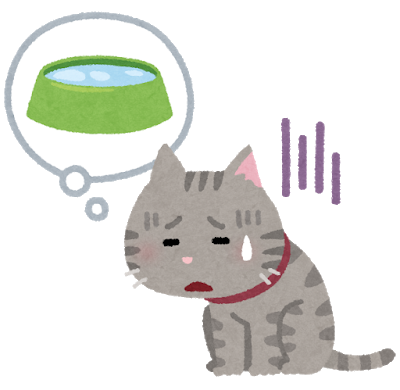
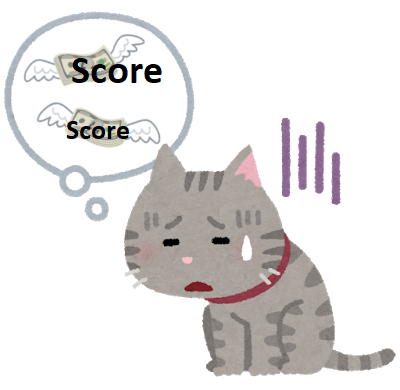
implemented the function to start a new trial

Changed region(s): [[0.06, 0.0615, 0.45, 0.4]]

diff --git a/js/view.js b/js/view.js
@@ -86,7 +86,7 @@ const restartBtn = () => {
     const btn = $('<button/>')
     .attr({
         class : 'btn btn-danger buttons',
-        id : 'restBtn',
+        id : 'restartBtn',
         'data-toggle': 'modal',
         'data-target': '#restart_modal' /*Trigger restart confirmation modal window*/
     }).text(RESTART_BTN);
@@ -294,6 +294,7 @@ const restart = () => {
 
     const  yesBtn = $('<button/>').attr({
         type: 'button',
+        id: 'yes',
         class: 'btn btn-primary modalBtns'
     })
     .text('YES');
@@ -329,30 +330,48 @@ const gameover = () => {
     
     const  restartBtn = $('<button/>').attr({
         type: 'button',
+        id: 'gameoverRestartBtn',
         class: 'btn btn-primary modalBtns'
     })
     .text(RESTART_BTN);
 
-    const  closeBtn = $('<button/>').attr({
-        type: 'button',
-        class: 'btn btn-danger modalBtns',
-        'data-dismiss': 'modal'
-    })
-    .text(CLOSE_BTN);
-
     $('#' + modalName + '_title').append(title);
     $('#' + modalName + '_content').append(message, $img);
-    $('#' + modalName + '_footer').append(restartBtn, closeBtn);
+    $('#' + modalName + '_footer').append(restartBtn);
 }
 
 const showLetter = (index) => {
     $('#answer' + index).css('visibility', 'visible');
 }
 
+const changeHangCatImg = () => {
+    if(mistake > 6) {
+        $('#hangCatImg').fadeOut(1000);
+        $('#gameover_modal').modal('show');
+    }
+    $('#hangCatImg').attr('src', '../images/hangCat/hanged' + mistake + '.png');
+}
+
+const updateScore = () => {
+    $('#score').text('Score: ' + score);
+}
+
+const updateTrial = () => {
+    $('#trial').text('Trial: ' + trial);
+}
+
 const showAlert = (inputField_id) => {
     $('#' + inputField_id).show();
 }
 
+const removePreviousHintAndWord = () => {
+    $('#hint').remove();
+    $('#curWordField').remove();
+}
+
+const hideModal = (modal_id) => {
+    $(modal_id).modal('hide');
+}
 
 const View = {
     showAppName : appName,
@@ -367,6 +386,10 @@ const View = {
     createSignUpModal : signUp,
     createLoginModal : logIn,
     createRestartModal : restart,
-    createGameOverModal : gameover
+    createGameOverModal : gameover,
+    showLetter: showLetter,
+    showAlert: showAlert,
+    changeHangCatImg: changeHangCatImg,
+    updateScore: updateScore
 };
 

diff --git a/js/controller.js b/js/controller.js
@@ -1,3 +1,5 @@
+const NEXT_TRIAL_AUDIO_FILE = '../sounds/moveToNext.mp3';
+
 const render_views = (current_hint, current_question) => {
     View.showAppName();
     View.createNavBar();
@@ -27,7 +29,6 @@ const game_start = () => {
 }
 
 const setLetterBtnEvents = () => {
-    
     //When each letter button is clicked.
     $('.letterBtns').click(function () {
         
@@ -37,19 +38,61 @@ const setLetterBtnEvents = () => {
         const result = search.result;
         const index = search.index;
 
-        if(result == true) {       
+        if(result === true) {       
            
             Model.playSound('../sounds/correct.mp3');
-            showLetter(index);
+            View.showLetter(index);
+            Model.addScore();
+            View.updateScore();
         
         } else {
             
-            Model.playSound('../sounds/wrong.mp3')
-        
+            Model.playSound('../sounds/wrong.mp3');
+            Model.countMistake();
+            View.changeHangCatImg();
         }
+    });
+
+    $('#yes').click(function() {
+        restartGame();
+        hideModal('#restart_modal');
+    });
+
+    $('#gameoverRestartBtn').click(function() {
+        restartGame();
+        hideModal('#gameover_modal');
     });
 }
 
+const restartGame = () => {
+    resetData();
+    updateScore();
+    updateTrial();
+    changeHangCatImg();
+    startNextTrial();
+}
+
+const startNextTrial= () => {
+    const current = Model.generateRandomNumber(quizArray.length);
+    const curHint = quizArray[current].hint;
+    const curAnswer = quizArray[current].answer;
+
+    Model.playSound(NEXT_TRIAL_AUDIO_FILE);
+    countTrial();
+    
+    //Remove Previously 
+    removePreviousHintAndWord();
+    
+    //Create a new hint & word.
+    View.createHint(curHint);
+    View.createWord(curAnswer);
+
+    //Create a new array of answer letters & assign into variable.
+    lettersArray = splitWordIntoLetters(curAnswer);
+}
+
+
 game_start();
+restartGame();
 
 

diff --git a/js/model.js b/js/model.js
@@ -1,4 +1,5 @@
 let score = 0;
+let mistake = 0;
 let trial = 0;
 let quizArray;
 let currentHint;
@@ -80,11 +81,31 @@ function searchWord(selected_letter) { /*It should not bind "this", so not arrow
     return false;
 }
 
+const addScore = () => {
+    score++;
+}
 
+const countTrial = () => {
+    trial++;
+}
+
+const countMistake = () => {
+    mistake++;
+}
+
+const resetData= () => {
+    score = 0;
+    trial = 0;
+    mistake = 0;
+}
 
 const Model = {
     createDataObjArray: dataObjArray,
-    playSound: sound,
     generateRandomNumber: randomNumber,
-    splitWordIntoLetters: splitWordIntoLetters
+    splitWordIntoLetters: splitWordIntoLetters,
+    playSound: sound,
+    searchWord: searchWord,
+    addScore: addScore,
+    countTrial: countTrial,
+    countMistake: countMistake
 };
